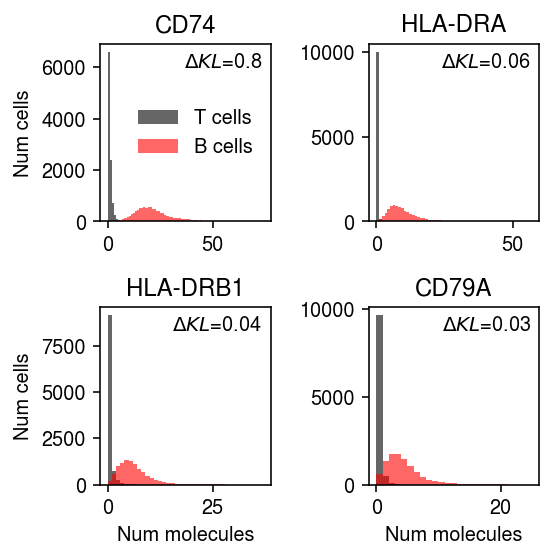
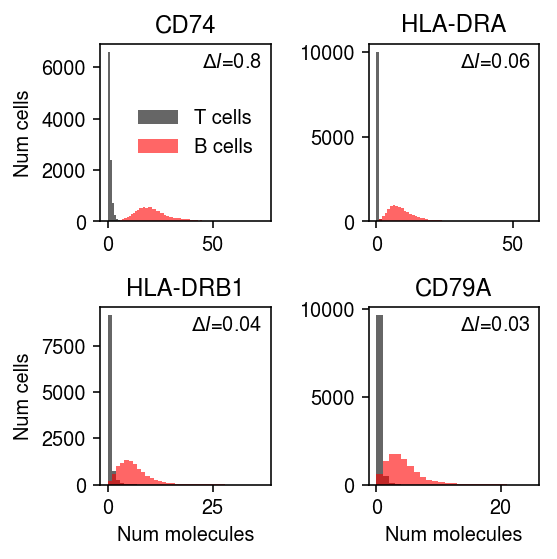
Replot MLCB example

diff --git a/docs/deconv-examples.html b/docs/deconv-examples.html
@@ -1,7 +1,7 @@
 <!DOCTYPE html>
 <html lang="en">
 <head>
-<!-- 2019-08-29 Thu 15:21 -->
+<!-- 2019-09-08 Sun 22:16 -->
 <meta charset="utf-8">
 <meta name="viewport" content="width=device-width, initial-scale=1">
 <title>Distribution deconvolution examples</title>
@@ -1183,7 +1183,7 @@ fig.set_size_inches(4, 4)
   <span class="org-variable-name">h</span> = a.hist(mix1.loc[y1 == 1,mix1.columns[k]], bins=np.arange(mix1.iloc[:,k].<span class="org-builtin">max</span>() + 1), color=<span class="org-string">'k'</span>, alpha=0.6, label=<span class="org-string">'T cells'</span>)
   a.hist(mix1.loc[y1 == 0,mix1.columns[k]], bins=np.arange(mix1.iloc[:,k].<span class="org-builtin">max</span>() + 1), color=<span class="org-string">'r'</span>, alpha=0.6, label=<span class="org-string">'B cells'</span>)
   a.text(x=.95, y=.95,
-         s=f<span class="org-string">"$\Delta KL$={llik_diff.iloc[k]:.1g}"</span>,
+         s=f<span class="org-string">"$\Delta l$={llik_diff.iloc[k]:.1g}"</span>,
          horizontalalignment=<span class="org-string">'right'</span>,
          verticalalignment=<span class="org-string">'top'</span>,
          transform=a.transAxes)
@@ -1591,7 +1591,7 @@ fig.tight_layout()
 </div>
 <div id="postamble" class="status">
 <p class="author">Author: Abhishek Sarkar</p>
-<p class="date">Created: 2019-08-29 Thu 15:21</p>
+<p class="date">Created: 2019-09-08 Sun 22:16</p>
 <p class="validation"><a href="http://validator.w3.org/check?uri=referer">Validate</a></p>
 </div>
 </body>
